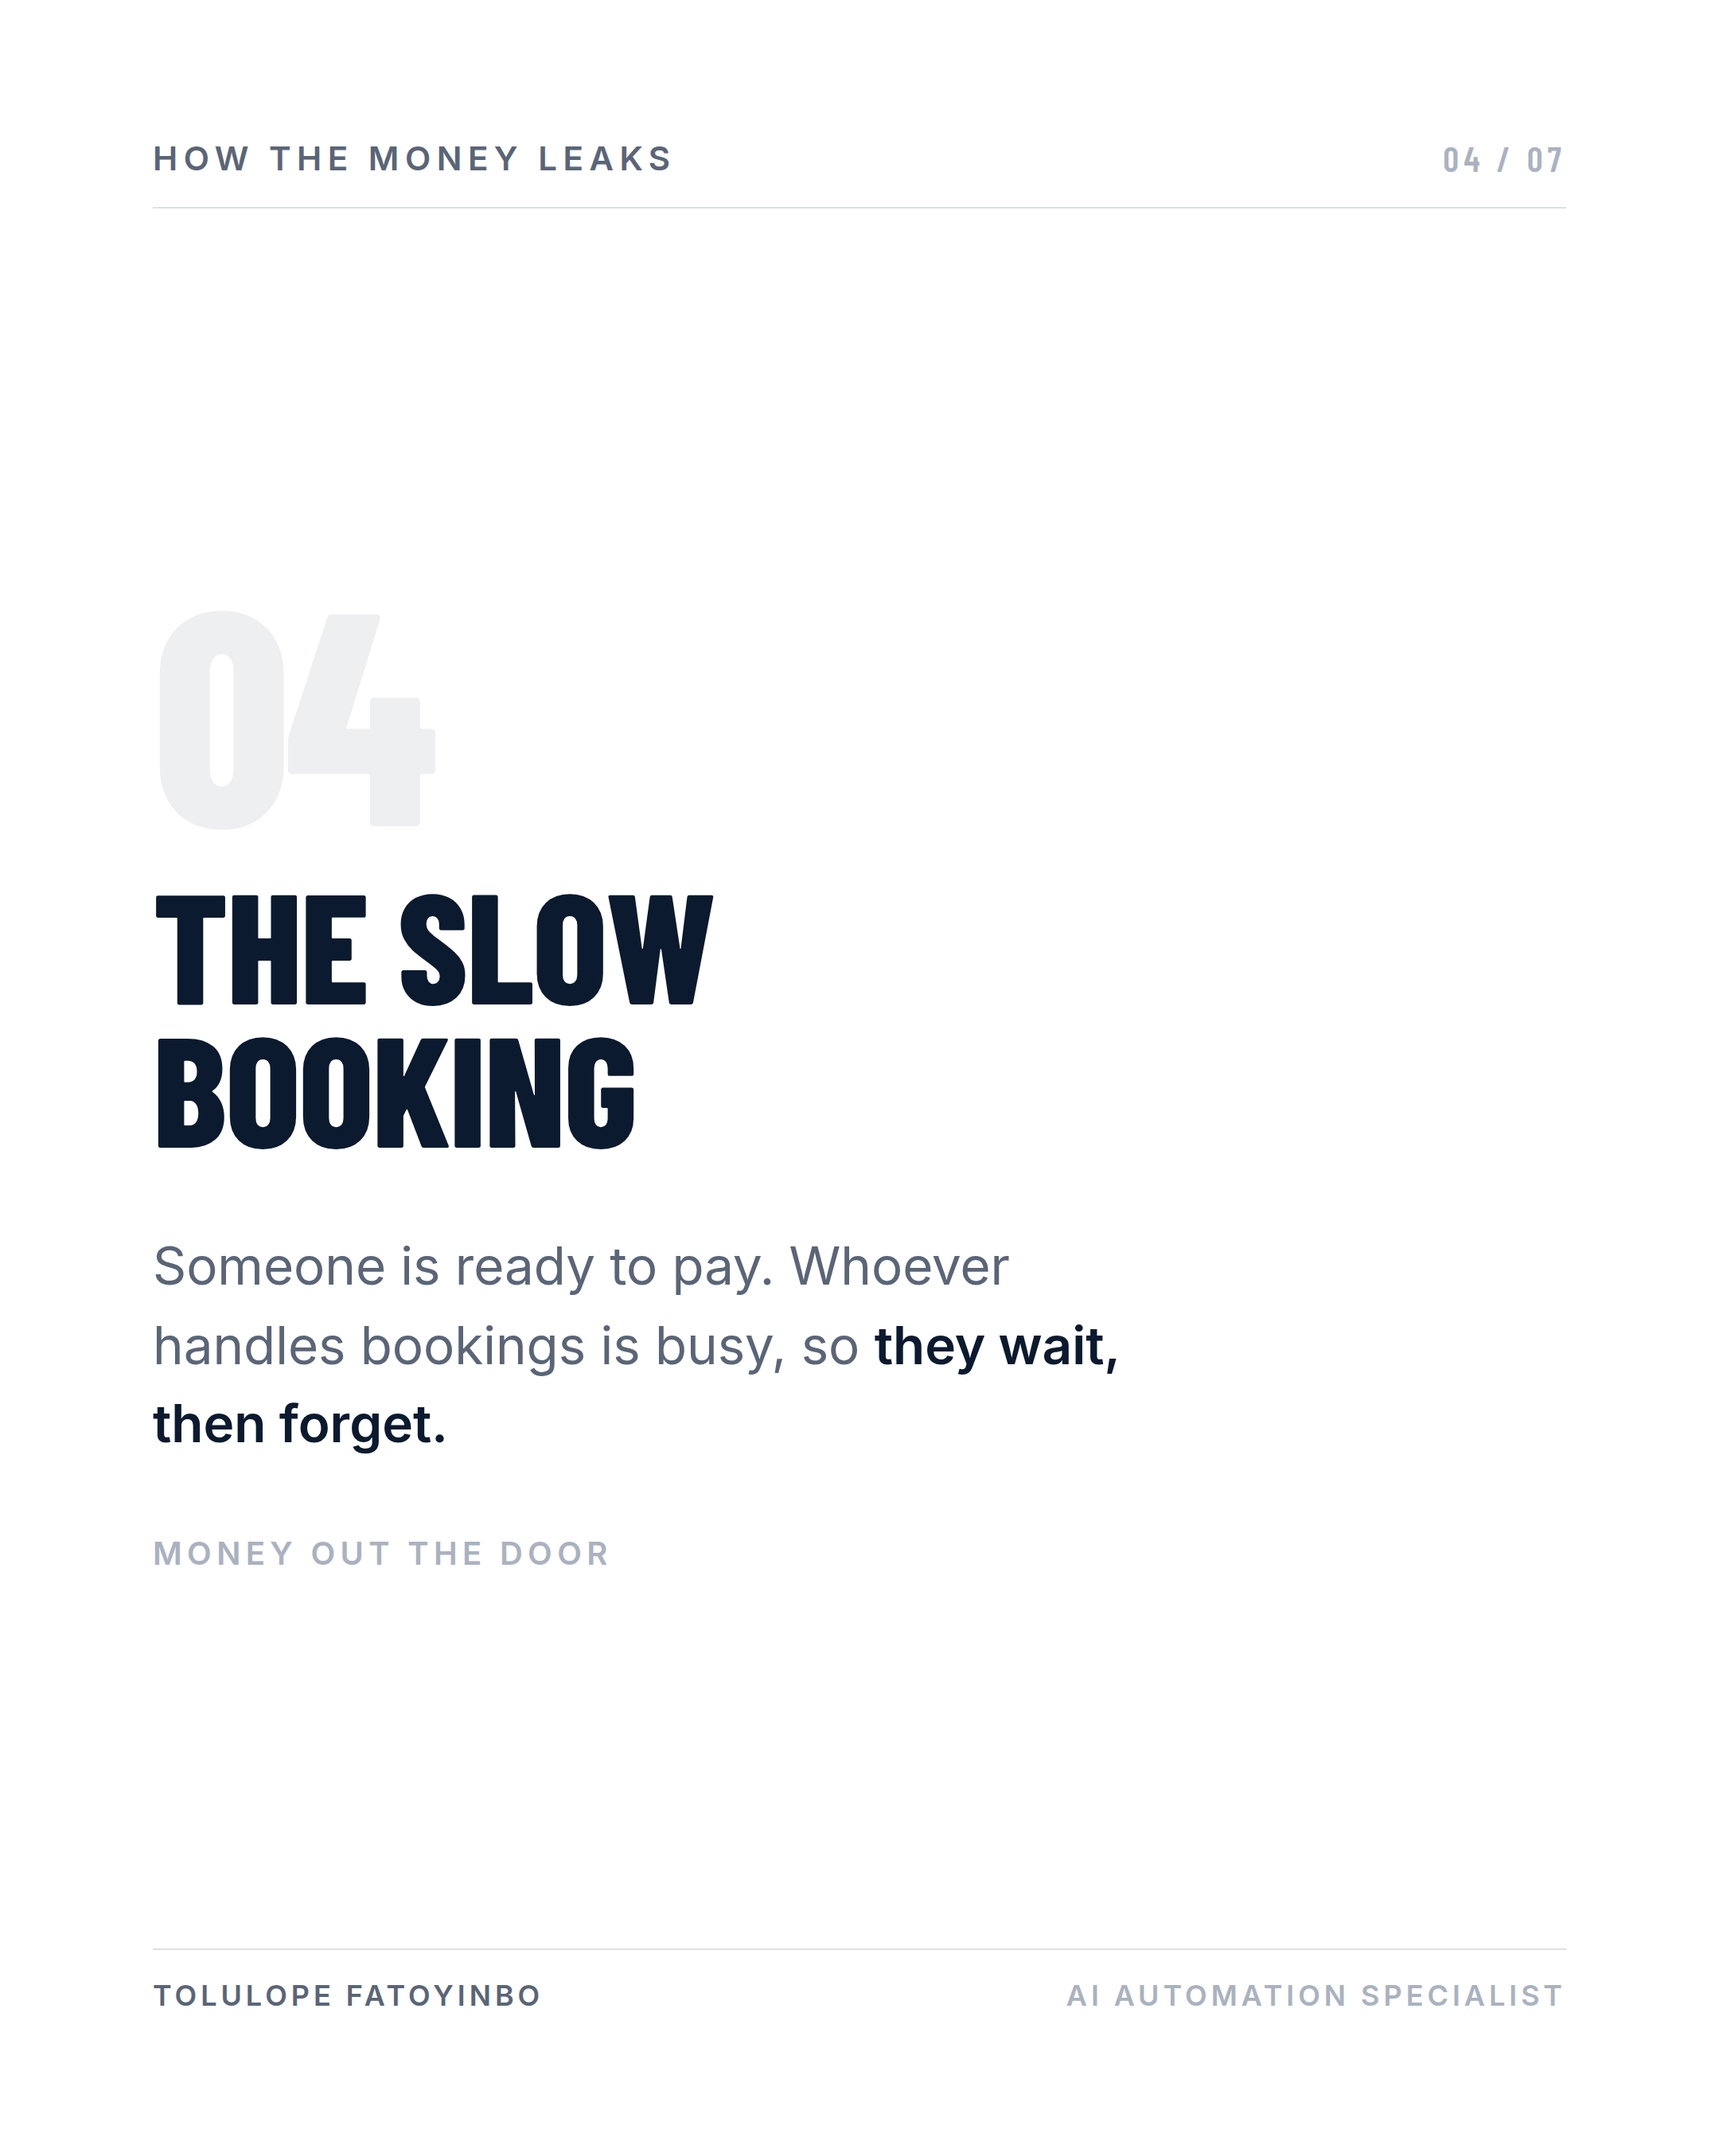
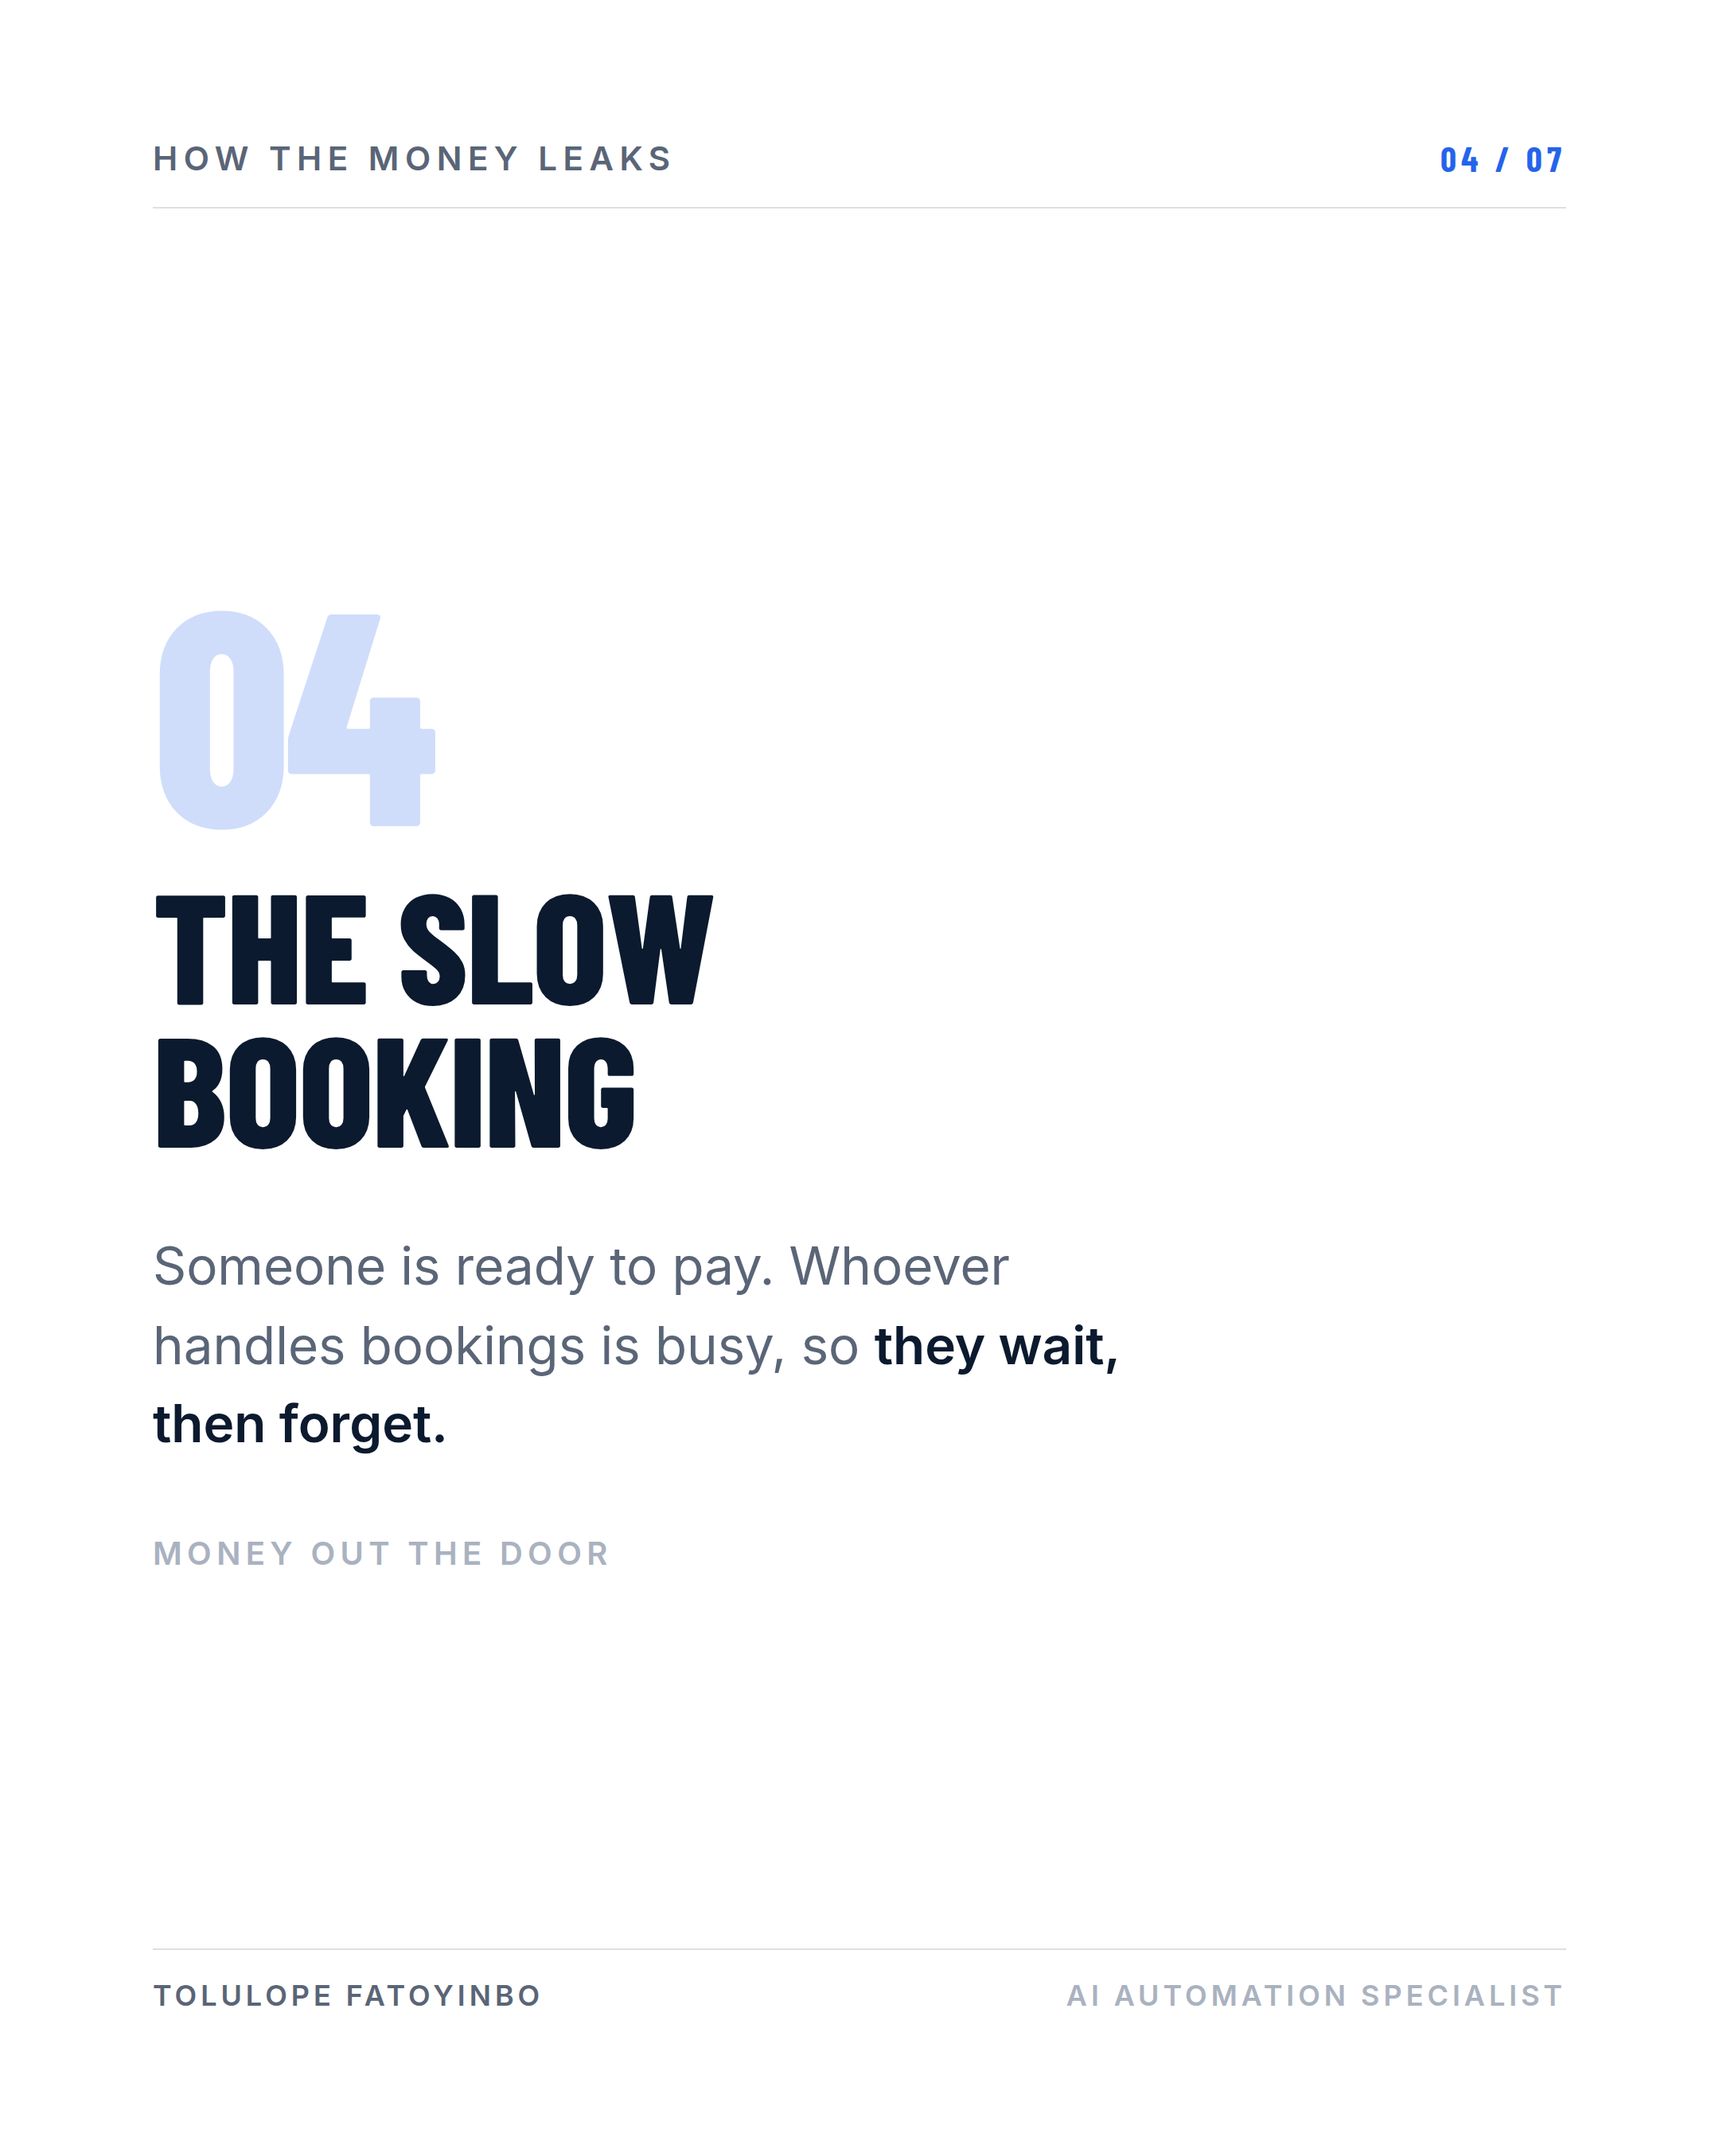
social: make carousel section + page numbers obvious (accent blue)
Claude-Session: https://claude.ai/code/session_01SkFGZsBuYd2sbHqq7bJQT8

Changed region(s): [[0.0931, 0.28, 0.2481, 0.4044], [0.8375, 0.0622, 0.8995, 0.0933]]

diff --git a/marketing/social/missed-carousel/composition.html b/marketing/social/missed-carousel/composition.html
@@ -41,13 +41,13 @@
            padding-bottom:var(--sp-sm);border-bottom:1px solid var(--hair)}
       .eyebrow{font-family:var(--font-body);font-size:var(--eyebrow);font-weight:600;
                letter-spacing:0.18em;text-transform:uppercase;color:var(--muted)}
-      .pagenum{font-family:var(--font-display);font-size:var(--pagenum);font-weight:600;
-               letter-spacing:0.14em;color:var(--faint)}
+      .pagenum{font-family:var(--font-display);font-size:var(--pagenum);font-weight:700;
+               letter-spacing:0.14em;color:var(--accent)}
 
       .main{flex:1;display:flex;flex-direction:column;justify-content:center}
 
       .secnum{font-family:var(--font-display);font-weight:800;font-size:var(--secnum);
-              line-height:0.8;letter-spacing:-0.02em;color:rgb(11 26 46 / 0.07);margin-bottom:var(--sp-md)}
+              line-height:0.8;letter-spacing:-0.02em;color:rgb(37 99 235 / 0.22);margin-bottom:var(--sp-md)}
 
       .headline{font-family:var(--font-display);font-weight:800;text-transform:uppercase;
                 font-size:var(--headline);line-height:0.92;letter-spacing:-0.01em;color:var(--ink)}
